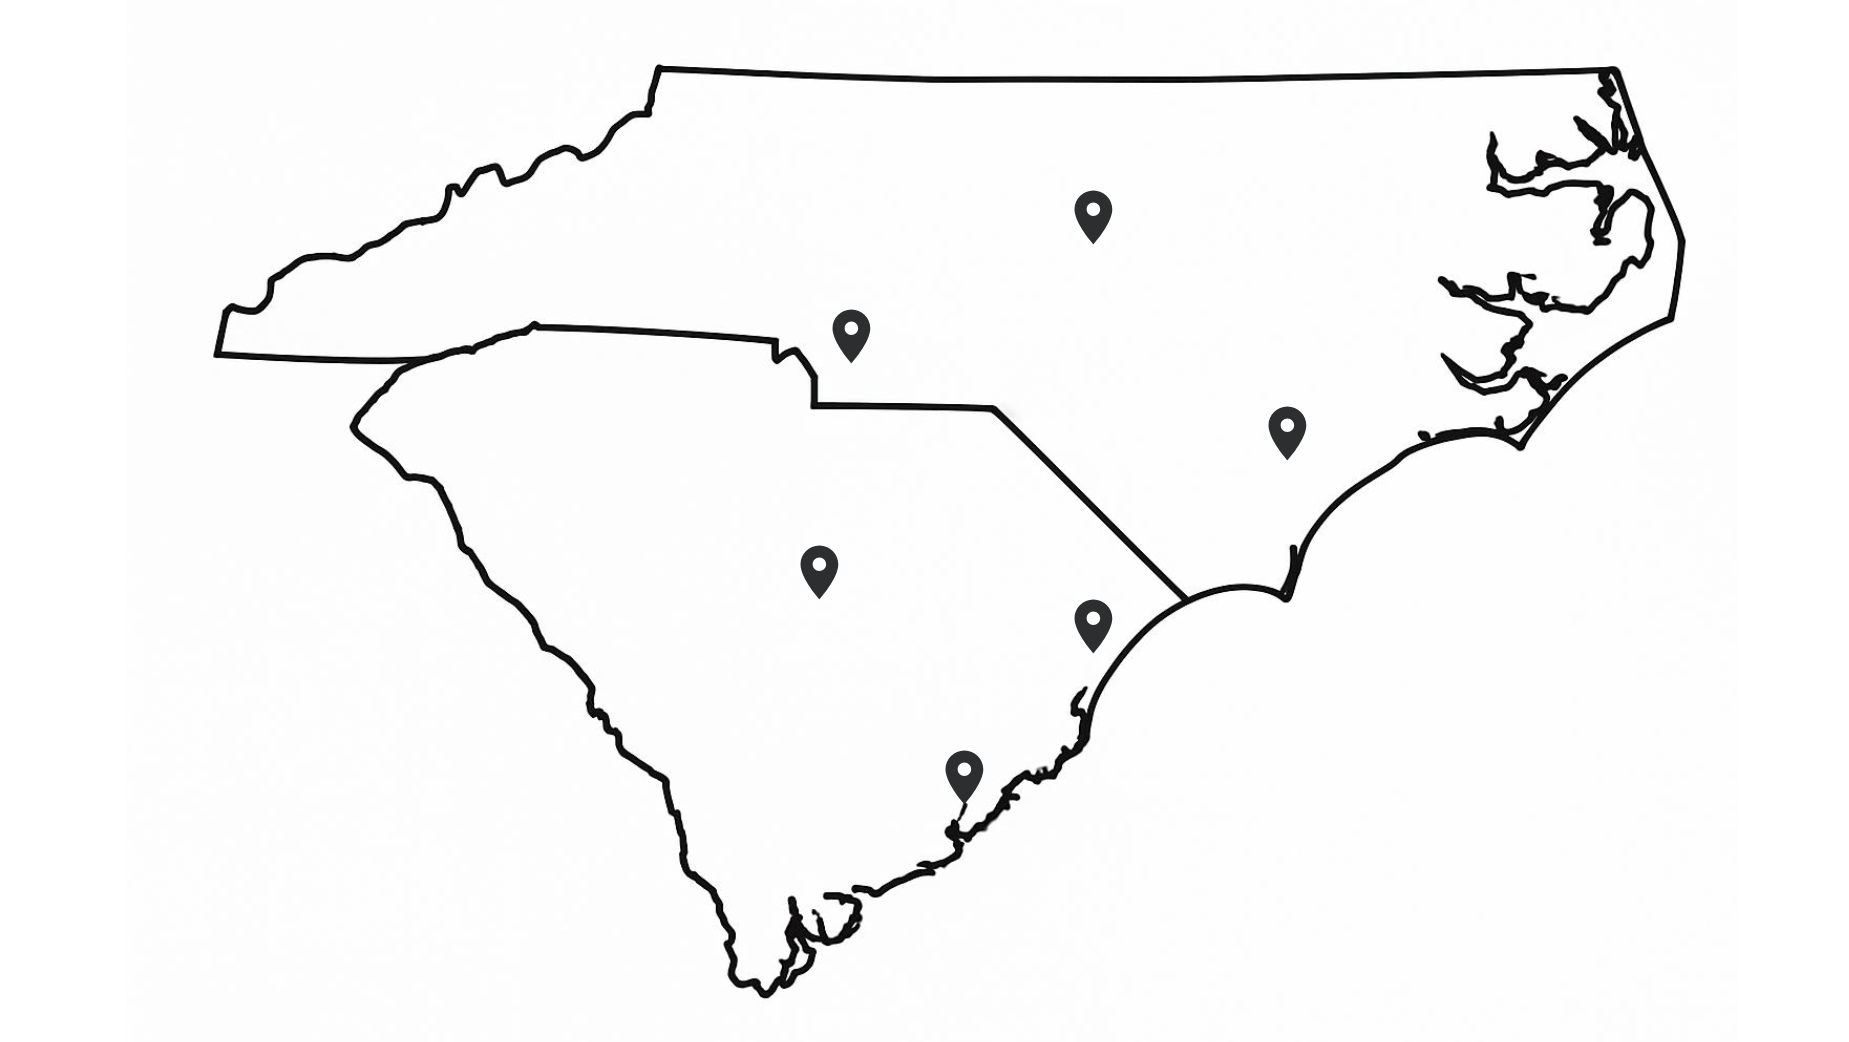
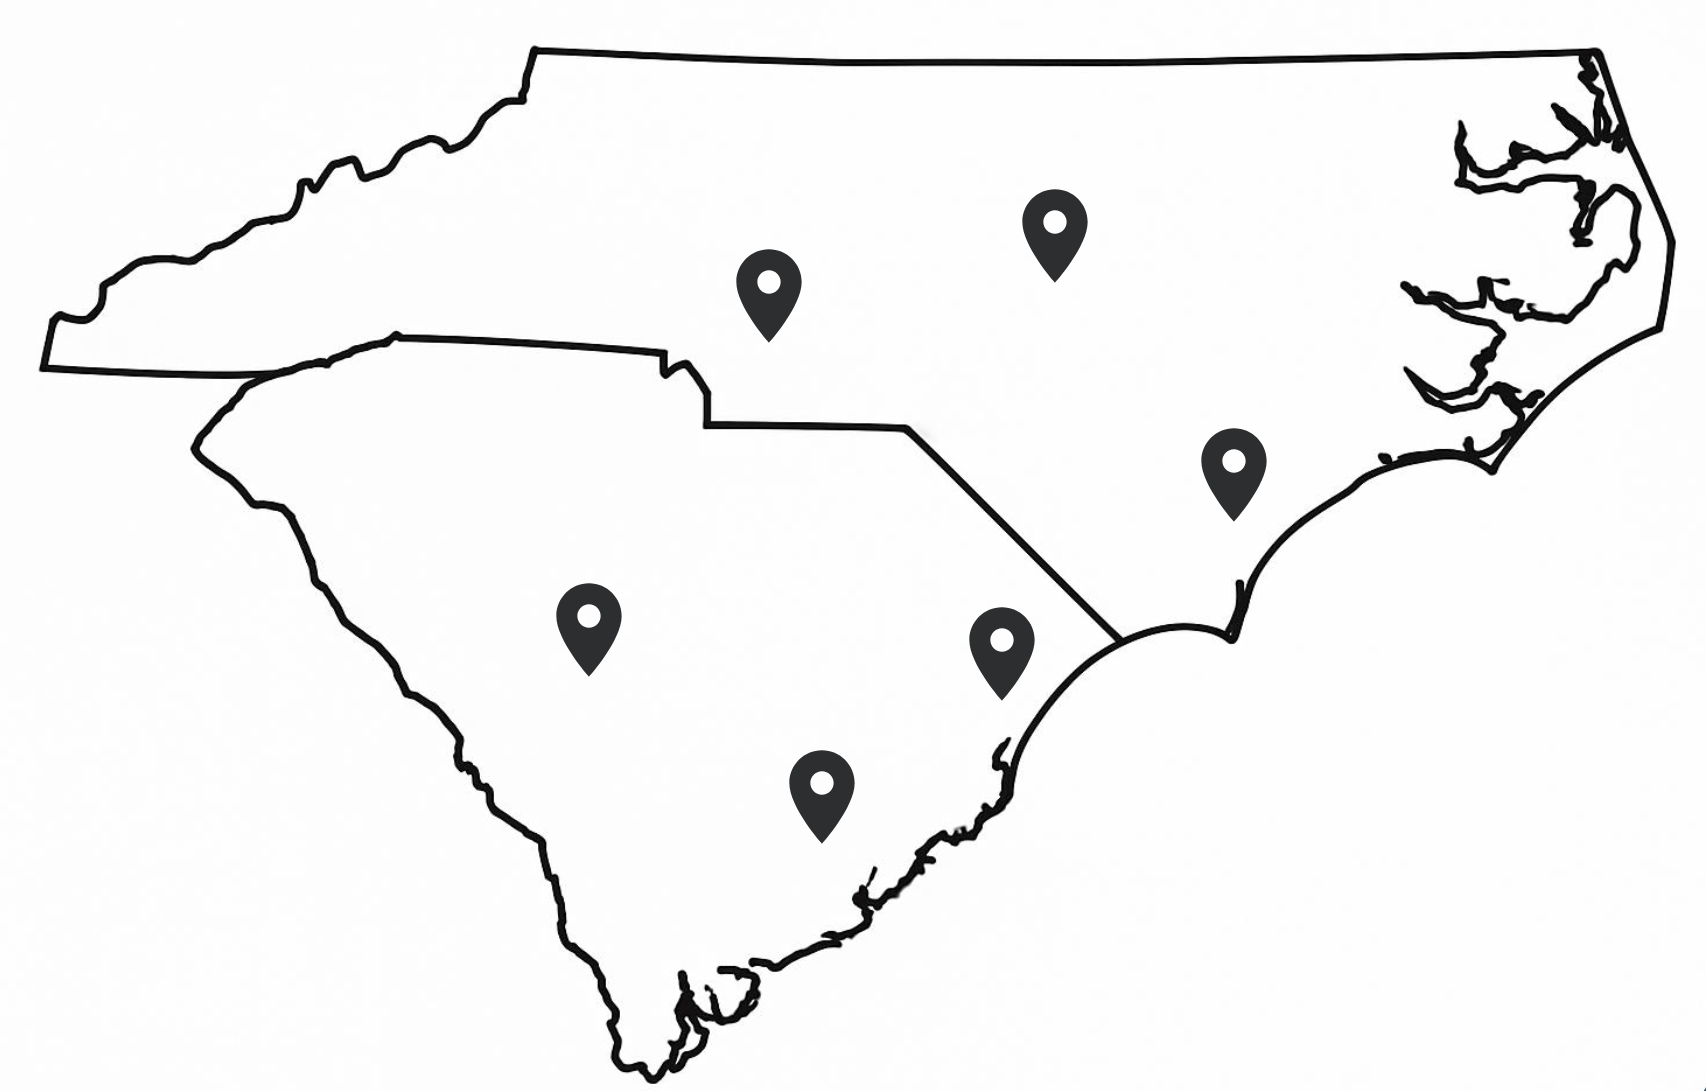
Map Pins Adjusted & Enlarged  Relocated each pin to its precise geographic coordinates on the service-area map.  Increased the pin graphic size to improve visibility at all breakpoints.  Contact Links Fixed  Corrected the href targets for all “Contact Us” buttons and telephone links so they now navi

diff --git a/locations.html b/locations.html
@@ -51,33 +51,33 @@
         </picture>
         <!-- Pins overlay -->
         <div class="hidden sm:block absolute inset-0">
-        <div class="absolute top-[30%] left-[43%]">
-          <svg class="w-9 h-9 text-brandgreen transform transition-transform duration-200 hover:scale-150" viewBox="0 0 24 24" fill="currentColor">
+        <div class="absolute top-[24%] left-[43%]">
+          <svg class="w-14 h-14 text-brandgreen transform transition-transform duration-200 hover:scale-150" viewBox="0 0 24 24" fill="currentColor">
             <path d="M12 2C8.14 2 5 5.14 5 9c0 5.25 7 13 7 13s7-7.75 7-13c0-3.86-3.14-7-7-7zm0 9.5c-1.38 0-2.5-1.12-2.5-2.5S10.62 6.5 12 6.5s2.5 1.12 2.5 2.5S13.38 11.5 12 11.5z"/>
           </svg>
         </div>
-        <div class="absolute top-[19%] left-[58%]">
-          <svg class="w-9 h-9 text-brandgreen transform transition-transform duration-200 hover:scale-150" viewBox="0 0 24 24" fill="currentColor">
+        <div class="absolute top-[19%] left-[59%]">
+          <svg class="w-14 h-14 text-brandgreen transform transition-transform duration-200 hover:scale-150" viewBox="0 0 24 24" fill="currentColor">
             <path d="M12 2C8.14 2 5 5.14 5 9c0 5.25 7 13 7 13s7-7.75 7-13c0-3.86-3.14-7-7-7zm0 9.5c-1.38 0-2.5-1.12-2.5-2.5S10.62 6.5 12 6.5s2.5 1.12 2.5 2.5S13.38 11.5 12 11.5z"/>
           </svg>
         </div>
-        <div class="absolute top-[39%] left-[70%]">
-          <svg class="w-9 h-9 text-brandgreen transform transition-transform duration-200 hover:scale-150" viewBox="0 0 24 24" fill="currentColor">
+        <div class="absolute top-[39%] left-[69%]">
+          <svg class="w-14 h-14 text-brandgreen transform transition-transform duration-200 hover:scale-150" viewBox="0 0 24 24" fill="currentColor">
             <path d="M12 2C8.14 2 5 5.14 5 9c0 5.25 7 13 7 13s7-7.75 7-13c0-3.86-3.14-7-7-7zm0 9.5c-1.38 0-2.5-1.12-2.5-2.5S10.62 6.5 12 6.5s2.5 1.12 2.5 2.5S13.38 11.5 12 11.5z"/>
           </svg>
         </div>
-        <div class="absolute top-[57%] left-[58%]">
-          <svg class="w-9 h-9 text-brandgreen transform transition-transform duration-200 hover:scale-150" viewBox="0 0 24 24" fill="currentColor">
+        <div class="absolute top-[54%] left-[56%]">
+          <svg class="w-14 h-14 text-brandgreen transform transition-transform duration-200 hover:scale-150" viewBox="0 0 24 24" fill="currentColor">
             <path d="M12 2C8.14 2 5 5.14 5 9c0 5.25 7 13 7 13s7-7.75 7-13c0-3.86-3.14-7-7-7zm0 9.5c-1.38 0-2.5-1.12-2.5-2.5S10.62 6.5 12 6.5s2.5 1.12 2.5 2.5S13.38 11.5 12 11.5z"/>
           </svg>
         </div>
-        <div class="absolute top-[71%] left-[50%]">
-          <svg class="w-9 h-9 text-brandgreen transform transition-transform duration-200 hover:scale-150" viewBox="0 0 24 24" fill="currentColor">
+        <div class="absolute top-[66%] left-[46%]">
+          <svg class="w-14 h-14 text-brandgreen transform transition-transform duration-200 hover:scale-150" viewBox="0 0 24 24" fill="currentColor">
             <path d="M12 2C8.14 2 5 5.14 5 9c0 5.25 7 13 7 13s7-7.75 7-13c0-3.86-3.14-7-7-7zm0 9.5c-1.38 0-2.5-1.12-2.5-2.5S10.62 6.5 12 6.5s2.5 1.12 2.5 2.5S13.38 11.5 12 11.5z"/>
           </svg>
         </div>
-        <div class="absolute top-[52%] left-[41%]">
-          <svg class="w-9 h-9 text-brandgreen transform transition-transform duration-200 hover:scale-150" viewBox="0 0 24 24" fill="currentColor">
+        <div class="absolute top-[52%] left-[33%]">
+          <svg class="w-14 h-14 text-brandgreen transform transition-transform duration-200 hover:scale-150" viewBox="0 0 24 24" fill="currentColor">
             <path d="M12 2C8.14 2 5 5.14 5 9c0 5.25 7 13 7 13s7-7.75 7-13c0-3.86-3.14-7-7-7zm0 9.5c-1.38 0-2.5-1.12-2.5-2.5S10.62 6.5 12 6.5s2.5 1.12 2.5 2.5S13.38 11.5 12 11.5z"/>
           </svg>
         </div>

diff --git a/tests/locations.html b/tests/locations.html
@@ -51,33 +51,33 @@
         </picture>
         <!-- Pins overlay -->
         <div class="hidden sm:block absolute inset-0">
-        <div class="absolute top-[30%] left-[43%]">
-          <svg class="w-9 h-9 text-brandgreen transform transition-transform duration-200 hover:scale-150" viewBox="0 0 24 24" fill="currentColor">
+        <div class="absolute top-[24%] left-[43%]">
+          <svg class="w-14 h-14 text-brandgreen transform transition-transform duration-200 hover:scale-150" viewBox="0 0 24 24" fill="currentColor">
             <path d="M12 2C8.14 2 5 5.14 5 9c0 5.25 7 13 7 13s7-7.75 7-13c0-3.86-3.14-7-7-7zm0 9.5c-1.38 0-2.5-1.12-2.5-2.5S10.62 6.5 12 6.5s2.5 1.12 2.5 2.5S13.38 11.5 12 11.5z"/>
           </svg>
         </div>
-        <div class="absolute top-[19%] left-[58%]">
-          <svg class="w-9 h-9 text-brandgreen transform transition-transform duration-200 hover:scale-150" viewBox="0 0 24 24" fill="currentColor">
+        <div class="absolute top-[19%] left-[59%]">
+          <svg class="w-14 h-14 text-brandgreen transform transition-transform duration-200 hover:scale-150" viewBox="0 0 24 24" fill="currentColor">
             <path d="M12 2C8.14 2 5 5.14 5 9c0 5.25 7 13 7 13s7-7.75 7-13c0-3.86-3.14-7-7-7zm0 9.5c-1.38 0-2.5-1.12-2.5-2.5S10.62 6.5 12 6.5s2.5 1.12 2.5 2.5S13.38 11.5 12 11.5z"/>
           </svg>
         </div>
-        <div class="absolute top-[39%] left-[70%]">
-          <svg class="w-9 h-9 text-brandgreen transform transition-transform duration-200 hover:scale-150" viewBox="0 0 24 24" fill="currentColor">
+        <div class="absolute top-[39%] left-[69%]">
+          <svg class="w-14 h-14 text-brandgreen transform transition-transform duration-200 hover:scale-150" viewBox="0 0 24 24" fill="currentColor">
             <path d="M12 2C8.14 2 5 5.14 5 9c0 5.25 7 13 7 13s7-7.75 7-13c0-3.86-3.14-7-7-7zm0 9.5c-1.38 0-2.5-1.12-2.5-2.5S10.62 6.5 12 6.5s2.5 1.12 2.5 2.5S13.38 11.5 12 11.5z"/>
           </svg>
         </div>
-        <div class="absolute top-[57%] left-[58%]">
-          <svg class="w-9 h-9 text-brandgreen transform transition-transform duration-200 hover:scale-150" viewBox="0 0 24 24" fill="currentColor">
+        <div class="absolute top-[54%] left-[56%]">
+          <svg class="w-14 h-14 text-brandgreen transform transition-transform duration-200 hover:scale-150" viewBox="0 0 24 24" fill="currentColor">
             <path d="M12 2C8.14 2 5 5.14 5 9c0 5.25 7 13 7 13s7-7.75 7-13c0-3.86-3.14-7-7-7zm0 9.5c-1.38 0-2.5-1.12-2.5-2.5S10.62 6.5 12 6.5s2.5 1.12 2.5 2.5S13.38 11.5 12 11.5z"/>
           </svg>
         </div>
-        <div class="absolute top-[71%] left-[50%]">
-          <svg class="w-9 h-9 text-brandgreen transform transition-transform duration-200 hover:scale-150" viewBox="0 0 24 24" fill="currentColor">
+        <div class="absolute top-[66%] left-[46%]">
+          <svg class="w-14 h-14 text-brandgreen transform transition-transform duration-200 hover:scale-150" viewBox="0 0 24 24" fill="currentColor">
             <path d="M12 2C8.14 2 5 5.14 5 9c0 5.25 7 13 7 13s7-7.75 7-13c0-3.86-3.14-7-7-7zm0 9.5c-1.38 0-2.5-1.12-2.5-2.5S10.62 6.5 12 6.5s2.5 1.12 2.5 2.5S13.38 11.5 12 11.5z"/>
           </svg>
         </div>
-        <div class="absolute top-[52%] left-[41%]">
-          <svg class="w-9 h-9 text-brandgreen transform transition-transform duration-200 hover:scale-150" viewBox="0 0 24 24" fill="currentColor">
+        <div class="absolute top-[52%] left-[33%]">
+          <svg class="w-14 h-14 text-brandgreen transform transition-transform duration-200 hover:scale-150" viewBox="0 0 24 24" fill="currentColor">
             <path d="M12 2C8.14 2 5 5.14 5 9c0 5.25 7 13 7 13s7-7.75 7-13c0-3.86-3.14-7-7-7zm0 9.5c-1.38 0-2.5-1.12-2.5-2.5S10.62 6.5 12 6.5s2.5 1.12 2.5 2.5S13.38 11.5 12 11.5z"/>
           </svg>
         </div>

diff --git a/contact.html b/contact.html
@@ -113,7 +113,7 @@
           <h2 class="text-3xl font-semibold mb-4 border-b-2 border-green-400 pb-2">Our Location</h2>
           <div class="w-full aspect-w-16 aspect-h-9">
             <iframe
-              src="https://www.google.com/maps/embed?pb=!1m18!1m12!1m3!1d3304.1234567890123!2d-79.0000000000000!3d33.5000000000000!2m3!1f0!2f0!3f0!3m2!1i1024!2i768!4f13.1!3m3!1m2!1s0x1234567890abcdef%3A0xabcdef1234567890!2s9751+Moose+Rd+%239%2C+Murrells+Inlet%2C+SC+29576!5e0!3m2!1sen!2sus!4v1234567890123"
+              src="https://www.google.com/maps/embed?pb=!1m14!1m8!1m3!1d13294.748931362736!2d-79.0304563!3d33.5874691!3m2!1i1024!2i768!4f13.1!3m3!1m2!1s0x89003fd2e07c75db%3A0x80fed9cd60432d5f!2sCharter%20Elevator!5e0!3m2!1sen!2sus!4v1751577200188!5m2!1sen!2sus" width="400" height="300" style="border:0;"
               class="w-full h-full border-0 rounded-lg"
               allowfullscreen
               loading="lazy"
@@ -121,7 +121,6 @@
             ></iframe>
           </div>
         </section>
-
       </div>
     </main>
 

diff --git a/tests/contact.html b/tests/contact.html
@@ -113,7 +113,7 @@
           <h2 class="text-3xl font-semibold mb-4 border-b-2 border-green-400 pb-2">Our Location</h2>
           <div class="w-full aspect-w-16 aspect-h-9">
             <iframe
-              src="https://www.google.com/maps/embed?pb=!1m18!1m12!1m3!1d3304.1234567890123!2d-79.0000000000000!3d33.5000000000000!2m3!1f0!2f0!3f0!3m2!1i1024!2i768!4f13.1!3m3!1m2!1s0x1234567890abcdef%3A0xabcdef1234567890!2s9751+Moose+Rd+%239%2C+Murrells+Inlet%2C+SC+29576!5e0!3m2!1sen!2sus!4v1234567890123"
+              src="https://www.google.com/maps/embed?pb=!1m14!1m8!1m3!1d13294.748931362736!2d-79.0304563!3d33.5874691!3m2!1i1024!2i768!4f13.1!3m3!1m2!1s0x89003fd2e07c75db%3A0x80fed9cd60432d5f!2sCharter%20Elevator!5e0!3m2!1sen!2sus!4v1751577200188!5m2!1sen!2sus" width="400" height="300" style="border:0;"
               class="w-full h-full border-0 rounded-lg"
               allowfullscreen
               loading="lazy"
@@ -121,7 +121,6 @@
             ></iframe>
           </div>
         </section>
-
       </div>
     </main>
 

diff --git a/scripts/header-footer.js b/scripts/header-footer.js
@@ -37,7 +37,7 @@
       <a href="index.html">
         <img src="images/charter_logo.png"
              alt="Charter Elevator Logo"
-             class="h-32 w-auto object-contain" />
+             class="h-32 w-auto max-w-full object-contain" />
       </a>
     </div>
 
@@ -77,7 +77,7 @@
           <img
             src="images/charter_logo.png"
             alt="Charter Elevator Logo"
-            class="w-full h-auto object-contain"
+            class="w-full h-auto max-w-[260px] object-contain"
           />
         </a>
       </div>

diff --git a/tests/scripts/header-footer.js b/tests/scripts/header-footer.js
@@ -37,7 +37,7 @@
       <a href="index.html">
         <img src="images/charter_logo.png"
              alt="Charter Elevator Logo"
-             class="h-32 w-auto object-contain" />
+             class="h-32 w-auto max-w-full object-contain" />
       </a>
     </div>
 
@@ -77,7 +77,7 @@
           <img
             src="images/charter_logo.png"
             alt="Charter Elevator Logo"
-            class="w-full h-auto object-contain"
+            class="w-full h-auto max-w-[260px] object-contain"
           />
         </a>
       </div>

diff --git a/index.html b/index.html
@@ -29,7 +29,6 @@
   <body>
     <!-- Header placeholder (injected by header-footer.js) -->
     <div id="site-header"></div>
-
     <div class="site-wrapper">
       <!-- Hero Section -->
       <section
@@ -491,7 +490,7 @@
       <div id="site-footer"></div>
     </div>
     <!-- end .site-wrapper -->
-
+    
     <!-- Required scripts -->
     <script src="scripts/header-footer.js"></script>
     <script src="scripts/survey.js"></script>

diff --git a/tests/index.html b/tests/index.html
@@ -29,7 +29,6 @@
   <body>
     <!-- Header placeholder (injected by header-footer.js) -->
     <div id="site-header"></div>
-
     <div class="site-wrapper">
       <!-- Hero Section -->
       <section
@@ -491,7 +490,7 @@
       <div id="site-footer"></div>
     </div>
     <!-- end .site-wrapper -->
-
+    
     <!-- Required scripts -->
     <script src="scripts/header-footer.js"></script>
     <script src="scripts/survey.js"></script>
